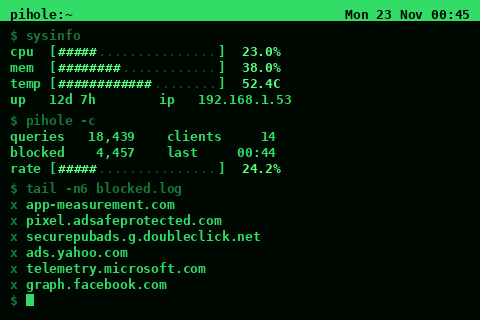
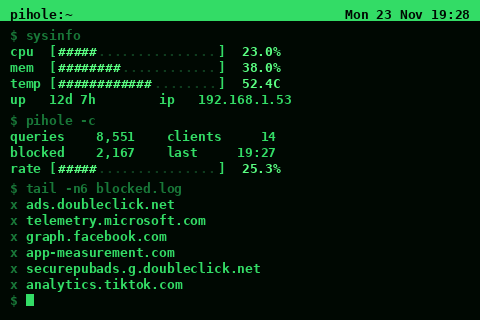
THumbs

diff --git a/tools/make_example.py b/tools/make_example.py
@@ -1,0 +1,229 @@
+#!/usr/bin/env python3
+"""Make the example PNG for one or more LCD dashboards, using sample data.
+
+usage:
+  tools/make_example.py lcd_180_neon.py [more.py ...]   # writes lcd_180_neon.png next to it
+  tools/make_example.py --all                          # every dashboard in dashboards/
+  options:
+    --out-dir DIR     write the PNGs to DIR instead of next to each script
+    --font FILE       use FILE for any font the script asks for that isn't installed
+                      (e.g. Roboto on a machine that doesn't have it)
+
+The web UI shows these images as previews; nothing is rendered on the server.
+Run this on any machine: it never touches a screen or a real Pi-hole.
+
+Sample data (the same every run, apart from the clock):
+  - a temporary Pi-hole database with 7 days of queries (~24% blocked,
+    quiet nights, busy evenings), 14 clients with hostnames, lifetime counters
+  - hostname "pihole", IP 192.168.1.53, CPU 23%, memory 38%, 52.4 °C,
+    uptime 12d 7h 43m
+"""
+import argparse
+import builtins
+import glob
+import importlib.util
+import io
+import os
+import random
+import socket
+import sqlite3
+import sys
+import tempfile
+import time
+import traceback
+from datetime import datetime as _datetime
+
+sys.dont_write_bytecode = True          # leave no __pycache__ in the project
+
+DASH_DIR = os.path.dirname(os.path.dirname(os.path.abspath(__file__)))
+PIHOLE_DB = "/etc/pihole/pihole-FTL.db"
+
+HOSTNAME, IP = "pihole", "192.168.1.53"
+CPU, MEM = 23.0, 38.0
+FAKE_FILES = {
+    "/proc/uptime": "1064580.12 4000000.00\n",                 # 12d 7h 43m
+    "/sys/class/thermal/thermal_zone0/temp": "52400\n",         # 52.4 °C
+}
+
+
+# ------------------------------------------------------------ sample data
+def build_db(path, seed=42):
+    """Pi-hole-like database: queries, client_by_id, counters."""
+    rnd = random.Random(seed)
+    now = int(time.time())
+
+    allowed = ["www.google.com", "api.github.com", "i.ytimg.com", "www.youtube.com",
+               "connectivity-check.ubuntu.com", "time.apple.com", "netflix.com",
+               "spotify.com", "cdn.discordapp.com", "en.wikipedia.org"]
+    blocked = ["ads.doubleclick.net", "telemetry.microsoft.com", "graph.facebook.com",
+               "app-measurement.com", "securepubads.g.doubleclick.net",
+               "analytics.tiktok.com", "pixel.adsafeprotected.com", "ads.yahoo.com"]
+    clients = [f"192.168.1.{i}" for i in (10, 11, 12, 20, 21, 22, 30, 31, 40, 41, 50, 51, 60, 61)]
+    names = ["living-room-tv", "macbook-pro", "iphone", "nas", "work-laptop", "ipad",
+             "echo-kitchen", "printer", "thermostat", "doorbell", "xbox", "pixel", "", ""]
+    client_w = [30, 22, 16, 12, 9, 7, 5, 4, 3, 3, 2, 2, 1, 1]
+    hour_w = [.15, .1, .08, .08, .1, .2, .45, .7, .8, .75, .7, .75,
+              .8, .75, .7, .75, .85, .95, 1, 1, .95, .8, .55, .3]
+
+    def sample_ts(lo, hi):
+        while True:
+            ts = rnd.randint(lo, hi)
+            if rnd.random() < hour_w[time.localtime(ts).tm_hour]:
+                return ts
+
+    rows = []
+    def add(ts):
+        if rnd.random() < 0.245:
+            status, domain = 1, rnd.choice(blocked)
+        else:
+            status, domain = rnd.choice((2, 3)), rnd.choices(allowed, weights=range(10, 0, -1))[0]
+        rows.append((ts, 1 if rnd.random() < 0.61 else 28, status, domain,
+                     rnd.choices(clients, weights=client_w)[0], None, 4, rnd.uniform(0.002, 0.06)))
+
+    # one continuous week at ~30k queries/day (weekends busier), so charts look
+    # natural whatever the time of day; "today" is whatever falls after midnight UTC
+    for day in range(7):
+        hi = now - 120 - day * 86400
+        lo = hi - 86400 + 1
+        vol = rnd.uniform(0.85, 1.15) * (1.2 if time.localtime(lo).tm_wday >= 5 else 1)
+        for _ in range(int(30000 * vol)):
+            add(sample_ts(lo, hi))
+    for i, d in enumerate(reversed(blocked[:7])): # a known, varied "latest blocked" list
+        rows.append((now - 60 + i * 5, 1, 1, d, clients[0], None, 4, 0.004))
+
+    con = sqlite3.connect(path)
+    con.execute("CREATE TABLE queries (id INTEGER PRIMARY KEY, timestamp INTEGER, type INTEGER,"
+                " status INTEGER, domain TEXT, client TEXT, forward TEXT, reply_type INTEGER,"
+                " reply_time REAL)")
+    con.execute("CREATE INDEX idx_queries_timestamp ON queries (timestamp)")
+    con.executemany("INSERT INTO queries (timestamp, type, status, domain, client, forward,"
+                    " reply_type, reply_time) VALUES (?,?,?,?,?,?,?,?)", rows)
+    con.execute("CREATE TABLE client_by_id (id INTEGER PRIMARY KEY, ip TEXT, name TEXT)")
+    con.executemany("INSERT INTO client_by_id (ip, name) VALUES (?,?)", zip(clients, names))
+    con.execute("CREATE TABLE counters (id INTEGER PRIMARY KEY, value INTEGER)")
+    con.executemany("INSERT INTO counters VALUES (?,?)", [(0, 1284512), (1, 301220)])
+    con.commit()
+    con.close()
+
+
+# ------------------------------------------------------- sandbox patches
+class _StopRender(Exception):
+    pass
+
+
+class _FramebufferSink(io.BytesIO):
+    """Stands in for /dev/fb*: stops scripts whose display loop starts on import."""
+    def close(self):
+        if not getattr(self, "_stopped", False):
+            self._stopped = True
+            raise _StopRender
+
+    def __exit__(self, *exc):
+        self.close()
+
+
+def _fake_open(path, *args, **kwargs):
+    if path in FAKE_FILES:
+        return io.StringIO(FAKE_FILES[path])
+    if isinstance(path, str) and path.startswith("/dev/fb"):
+        return _FramebufferSink()
+    return builtins.open(path, *args, **kwargs)
+
+
+def install_patches(db_path, font_fallback, now):
+    import psutil
+    from PIL import ImageFont
+
+    class _VM:
+        percent = MEM
+    psutil.cpu_percent = lambda *a, **k: CPU
+    psutil.virtual_memory = lambda: _VM()
+    socket.gethostname = lambda: HOSTNAME
+    time.time = lambda: now.timestamp()
+
+    real_connect = sqlite3.connect
+    def connect(path, *a, **k):
+        return real_connect(db_path if path == PIHOLE_DB else path, *a, **k)
+    sqlite3.connect = connect
+
+    real_truetype = ImageFont.truetype
+    missing = set()
+    def truetype(font=None, size=10, *a, **k):
+        if isinstance(font, str) and not os.path.exists(font):
+            if not font_fallback:
+                missing.add(font)
+                raise OSError(f"font not installed: {font} (use --font FILE)")
+            font = font_fallback
+        return real_truetype(font, size, *a, **k)
+    ImageFont.truetype = truetype
+
+
+def frozen_datetime(now):
+    class FixedDatetime(_datetime):
+        @classmethod
+        def now(cls, tz=None):
+            return cls(now.year, now.month, now.day, now.hour, now.minute)
+    return FixedDatetime
+
+
+def render(script, now):
+    spec = importlib.util.spec_from_file_location("dashboard_" + os.path.basename(script)[:-3], script)
+    module = importlib.util.module_from_spec(spec)
+    module.open = _fake_open                      # the script's own open()
+    try:
+        spec.loader.exec_module(module)
+    except _StopRender:
+        pass                                      # module-level loop reached write_fb
+    if hasattr(module, "datetime"):
+        module.datetime = frozen_datetime(now)
+    if hasattr(module, "get_ip"):
+        module.get_ip = lambda: IP
+    return module.draw_screen(module.get_stats())
+
+
+# ------------------------------------------------------------------- main
+def main():
+    ap = argparse.ArgumentParser(description=__doc__.splitlines()[0])
+    ap.add_argument("scripts", nargs="*", help="dashboard scripts (names or paths)")
+    ap.add_argument("--all", action="store_true", help="every dashboard in dashboards/")
+    ap.add_argument("--out-dir", help="write PNGs here instead of next to each script")
+    ap.add_argument("--font", help="font file to use for fonts that aren't installed")
+    args = ap.parse_args()
+
+    if args.all:
+        scripts = sorted(glob.glob(os.path.join(DASH_DIR, "*.py")))
+    else:
+        scripts = [s if os.path.exists(s) else os.path.join(DASH_DIR, s) for s in args.scripts]
+    if not scripts:
+        ap.error("name at least one dashboard, or use --all")
+    if args.font and not os.path.isfile(args.font):
+        ap.error(f"--font: no such file {args.font}")
+
+    now = _datetime.now().replace(second=0, microsecond=0)
+    failed = 0
+    with tempfile.TemporaryDirectory() as tmp:
+        db = os.path.join(tmp, "pihole-FTL.db")
+        build_db(db)
+        install_patches(db, args.font, now)
+        for script in scripts:
+            name = os.path.basename(script)
+            if not os.path.isfile(script):
+                print(f"FAIL {name}: no such file"); failed += 1; continue
+            out = os.path.join(args.out_dir, name[:-3] + ".png") if args.out_dir \
+                else script[:-3] + ".png"
+            try:
+                img = render(script, now)
+                if args.out_dir:
+                    os.makedirs(args.out_dir, exist_ok=True)
+                img.save(out)
+                print(f"ok   {name:34s} -> {os.path.relpath(out)}  {img.size[0]}x{img.size[1]}")
+            except Exception as e:
+                failed += 1
+                print(f"FAIL {name}: {e}")
+                if not isinstance(e, OSError):
+                    traceback.print_exc()
+    sys.exit(1 if failed else 0)
+
+
+if __name__ == "__main__":
+    main()
